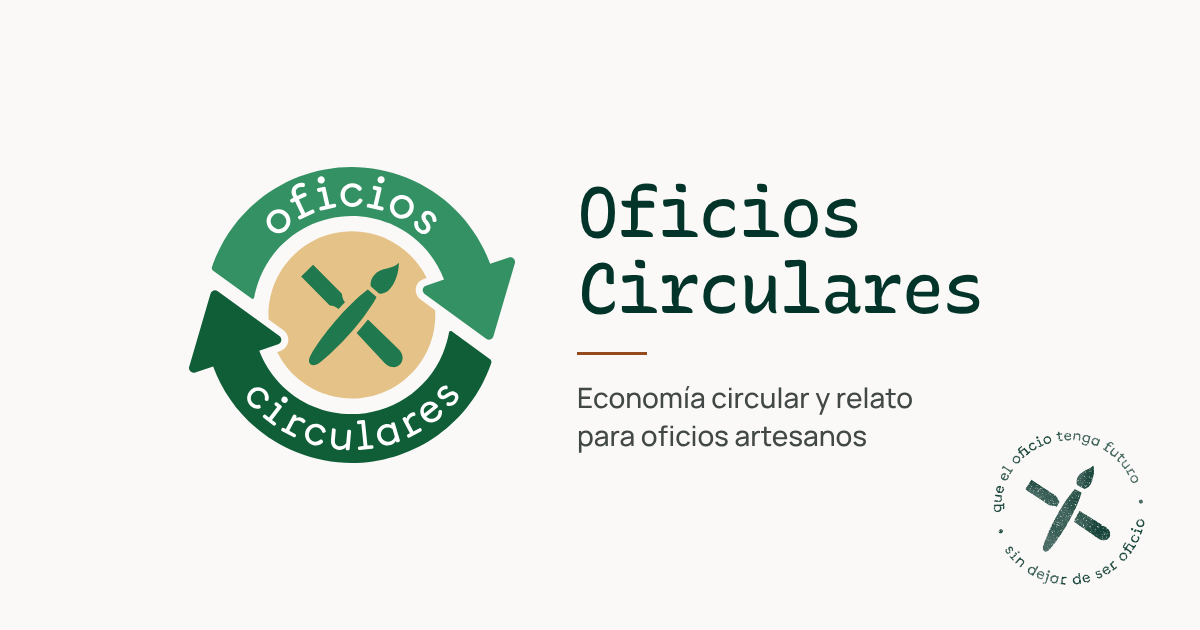
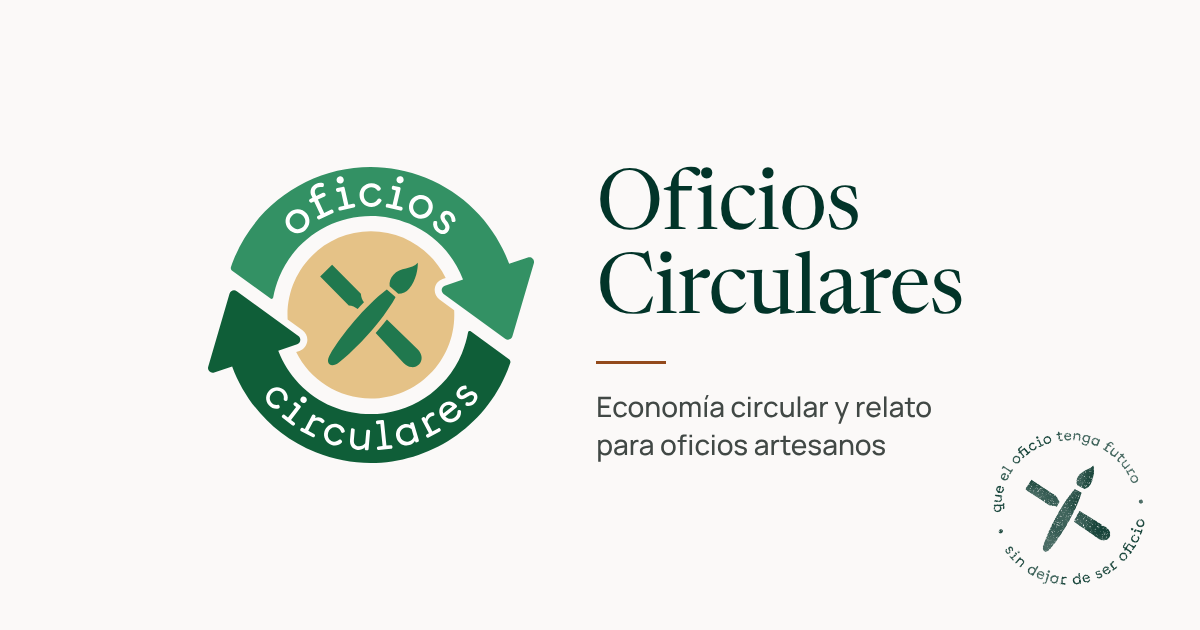
revert(marca): quitar Recursive Mono del nombre; cabecera y tarjeta de enlaces vuelven a Newsreader mientras se elige tipografía
Claude-Session: https://claude.ai/code/session_01GJ1PqxSQfN8ggCphodhiYU

Changed region(s): [[0.1542, 0.2413, 0.8325, 0.754], [0.4625, 0.5429, 0.7708, 0.7238]]

diff --git a/public/assets/css/styles.css b/public/assets/css/styles.css
@@ -4811,22 +4811,3 @@ iframe[src*="tally.so"] {
     .about-content .content-section--sello .oc-sello { --sello-w: 80px; top: -18px; right: 0; }
 }
 
-/* ==========================================================================
-   Nombre junto al logo 2026 — Recursive Mono Casual (OFL), sustituto libre
-   de Documan (la tipografía del logo): monolineal, terminales redondeados,
-   remates tipo máquina de escribir. Instancia fija MONO 1 · CASL 1 · wght 450.
-   ========================================================================== */
-@font-face {
-    font-family: 'OC Wordmark';
-    src: url('/assets/fonts/oc-wordmark.woff2') format('woff2');
-    font-weight: 400;
-    font-style: normal;
-    font-display: swap;
-}
-.nav-logo .logo-text,
-.footer-logo .logo-text {
-    font-family: 'OC Wordmark', 'Courier New', monospace !important;
-    font-weight: 400 !important;
-    font-size: 1.22rem !important;
-    letter-spacing: -0.02em;
-}
